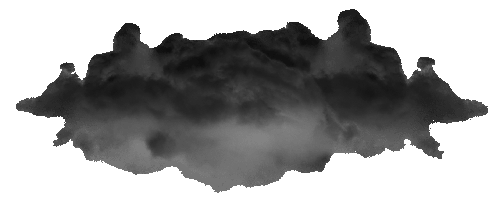
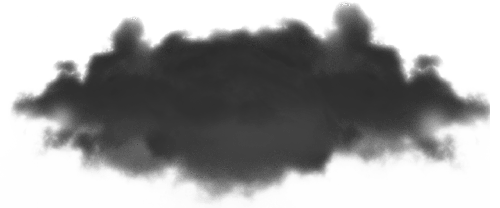
Animation work on several components, got rid of the wheel bc it's garbage

diff --git a/src/Animations/5_Hierophant.js b/src/Animations/5_Hierophant.js
@@ -4,22 +4,54 @@ import ravenhead from '../Assets/5_Hierophant_Raven_Head.png'
 import feather from '../Assets/5_Hierophant_Feather.png'
 import books from '../Assets/5_Hierophant_Books.png'
 
-const Hierophant = props => {
-  return (
-    <div className='card-animation'>
-      <img alt='' src={books} style={{ position: 'absolute', top: '0', height: '100%' }} />
+class Hierophant extends React.Component {
 
-      <img alt='' src={raven}
-      className='card-fit-height'
-      style={{ position: 'relative', left: '-50%', top: '20%' }} />
+  componentDidMount() {
+    const feathers = Array.from(document.getElementsByClassName('feather'))
 
-      <img alt='' src={ravenhead}
-      className='card-fit-height'
-      style={{ position: 'relative', top: '-81%', left: '-50%' }} />
+    feathers.forEach(feather => {
+      feather.style.animationDelay = Math.random() * 4 + 's'
+      feather.style.transform = `rotate(${Math.random() * 45 + 15 + 'deg'})`
+    })
+  }
 
-      <img alt='' src={feather} style={{ position: 'absolute', margin: 'inherit', top: '0', width: '30%' }} />
-    </div>
-  )
+  render() {
+    return (
+      <div className='card-animation'>
+
+        <img alt='' src={books} style={{ position: 'absolute', top: '0', height: '100%' }} />
+
+        <img alt='' src={raven}
+        className='card-fit-height'
+        style={{ position: 'relative', left: '-50%', top: '20%' }} />
+
+        <img alt='' src={feather}
+        className='feather'
+        style={{ position: 'absolute', margin: 'inherit', width: '10%', animation: 'featherfall-one 7s infinite' }} />
+
+        <img alt='' src={feather}
+        className='feather'
+        style={{ position: 'absolute', margin: 'inherit', width: '10%', animation: 'featherfall-two 8s infinite' }} />
+
+        <img alt='' src={feather}
+        className='feather'
+        style={{ position: 'absolute', margin: 'inherit', width: '10%', animation: 'featherfall-three 9s infinite' }} />
+
+        <img alt='' src={feather}
+        className='feather'
+        style={{ position: 'absolute', margin: 'inherit', width: '10%', animation: 'featherfall-four 10s infinite' }} />
+
+        <img alt='' src={feather}
+        className='feather'
+        style={{ position: 'absolute', margin: 'inherit', width: '10%', animation: 'featherfall-five 11s infinite' }} />
+
+        <img alt='' src={ravenhead}
+        className='card-fit-height'
+        style={{ position: 'relative', top: '-81%', left: '-50%' }} />
+
+      </div>
+    )
+  }
 }
 
 export default Hierophant

diff --git a/src/Animations/16_Tower.js b/src/Animations/16_Tower.js
@@ -2,39 +2,53 @@ import React from 'react'
 import baobab from '../Assets/16_Tower_Baobab.png'
 import cloud from '../Assets/16_Tower_Cloud.png'
 
-const Tower = props => {
-  return (
-    <div className='card-animation'>
+class Tower extends React.Component {
 
-      <img alt='' src={baobab}
-      className='card-fit-height'
-      style={{ right: '100%', zIndex: '100' }}
-      />
+  componentDidMount() {
+    const clouds = Array.from(document.getElementsByClassName('thunder'))
 
-      <img alt='' src={cloud}
-      style={{ position: 'absolute', top: '50%', left: '-50%' }}
-      />
+    clouds.forEach(cloud => {
+      cloud.style.animationDelay = Math.random() * 10 + 's'
+    })
+  }
 
-      <img alt='' src={cloud}
-      style={{ position: 'absolute', top: '30%', left: '-30%' }}
-      />
+  render() {
+    return (
+      <div className='card-animation'>
 
-      <img alt='' src={cloud}
-      style={{ transform: 'rotate(180deg)', position: 'absolute', top: '10%', left: '-25%' }}
-      />
+        <img alt='' src={baobab}
+        className='card-fit-height'
+        style={{ right: '100%', zIndex: '100' }}
+        />
 
-      <img alt='' src={cloud}
-      style={{ position: 'absolute', top: '-10%', left: '-20%' }}
-      />
+        <img alt='' src={cloud}
+        className='thunder'
+        style={{ position: 'absolute', top: '50%', left: '-50%' }}
+        />
 
-      <img alt='' src={cloud}
-      style={{ transform: 'rotate(180deg)', position: 'absolute', top: '-20%', left: '-30%' }}
-      />
+        <img alt='' src={cloud}
+        className='thunder'
+        style={{ position: 'absolute', top: '30%', left: '-30%' }}
+        />
 
+        <img alt='' src={cloud}
+        className='thunder'
+        style={{ transform: 'rotate(180deg)', position: 'absolute', top: '10%', left: '-25%' }}
+        />
 
+        <img alt='' src={cloud}
+        className='thunder'
+        style={{ position: 'absolute', top: '-10%', left: '-20%' }}
+        />
 
-    </div>
-  )
+        <img alt='' src={cloud}
+        className='thunder'
+        style={{ transform: 'rotate(180deg)', position: 'absolute', top: '-20%', left: '-30%' }}
+        />
+
+      </div>
+    )
+  }
 }
 
 export default Tower

diff --git a/src/App.scss b/src/App.scss
@@ -33,13 +33,42 @@
 
 @keyframes death-pulse {
   0% { background: black }
-  50% { background: black }
+  20% { background: black }
   100% { background: #1a1a00 }
 }
 
 .death-pulse {
-  animation: death-pulse 6s infinite alternate;
+  animation: death-pulse 4s infinite alternate;
 }
+
+// Raven Feather Animations
+
+@keyframes featherfall-one {
+  0% { top: 30%; right: 20%; }
+  100% { top: 90%; right: 120%; }
+}
+
+@keyframes featherfall-two {
+  0% { top: 35%; right: 10%; }
+  100% { top: 70%; right: 120%; }
+}
+
+@keyframes featherfall-three {
+  0% { top: 40%; right: 15%; }
+  100% { top: 50%; right: 120%; }
+}
+
+@keyframes featherfall-four {
+  0% { top: 40%; right: 0%; }
+  100% { top: 30%; right: 120%; }
+}
+
+@keyframes featherfall-five {
+  0% { top: 40%; right: 0%; }
+  100% { top: 110%; right: 120%; }
+}
+
+// ----------
 
 @keyframes firefly {
   0% { opacity: 0 }
@@ -54,8 +83,8 @@
 
 @keyframes inkblot {
   0% { filter: blur(0) opacity(0) }
-  75% { filter: blur(0) opacity(0) }
-  95% { filter: blur(0) opacity(0.7) }
+  80% { filter: blur(0) opacity(0) }
+  95% { filter: blur(0) opacity(0.9) }
   100% { filter: blur(1px) opacity(1) }
 }
 
@@ -92,6 +121,19 @@
 
 .animation-rotate-slowest {
   animation: rotate 60s infinite linear;
+}
+
+@keyframes thunder {
+  0% { filter: brightness(1); }
+  0.5% { filter: brightness(5); }
+  1% { filter: brightness(3); }
+  1.5% { filter: brightness(5); }
+  3% { filter: brightness(1); }
+  100% { filter: brightness(1); }
+}
+
+.thunder {
+  animation: thunder 15s infinite linear;
 }
 
 /* ---------- */

diff --git a/src/Animations/10_WheelOfFortune.js b/src/Animations/10_WheelOfFortune.js
@@ -1,20 +1,8 @@
 import React from 'react'
-import lichen from '../Assets/10_Wheel_Lichen.png'
-import zodiac from '../Assets/10_Wheel_Zodiac.png'
-import shell from '../Assets/10_Wheel_Shell.png'
 
 const Empress = props => {
   return (
     <div className='card-animation' style={{ textAlign: 'centered' }}>
-
-      <img alt='' src={lichen}
-      style={{ position: 'relative', width: '101%' }} />
-
-      <img alt='' src={zodiac}
-      style={{ position: 'relative', top: '-65%', left: '20%', width: '60%', zIndex: '1' }} />
-
-      <img alt='' src={shell}
-      style={{ position: 'relative', top: '-80%', left: '-25%', width: '30%', zIndex: '2' }} />
 
     </div>
   )

diff --git a/src/Animations/18_Moon.js b/src/Animations/18_Moon.js
@@ -8,6 +8,17 @@ import grass from '../Assets/18_Moon_Grass.png'
 
 class Moon extends React.Component {
 
+  componentDidMount() {
+    const fireflies = Array.from(document.getElementsByClassName('firefly'))
+
+    fireflies.forEach(firefly => {
+      firefly.style.bottom = Math.floor(Math.random() * 50) + '%'
+      firefly.style.left = Math.floor(Math.random() * 100) + '%'
+      firefly.style.animationDelay = Math.random() * 10 + 's'
+    })
+
+  }
+
   render() {
     return (
       <div className='card-animation'>
